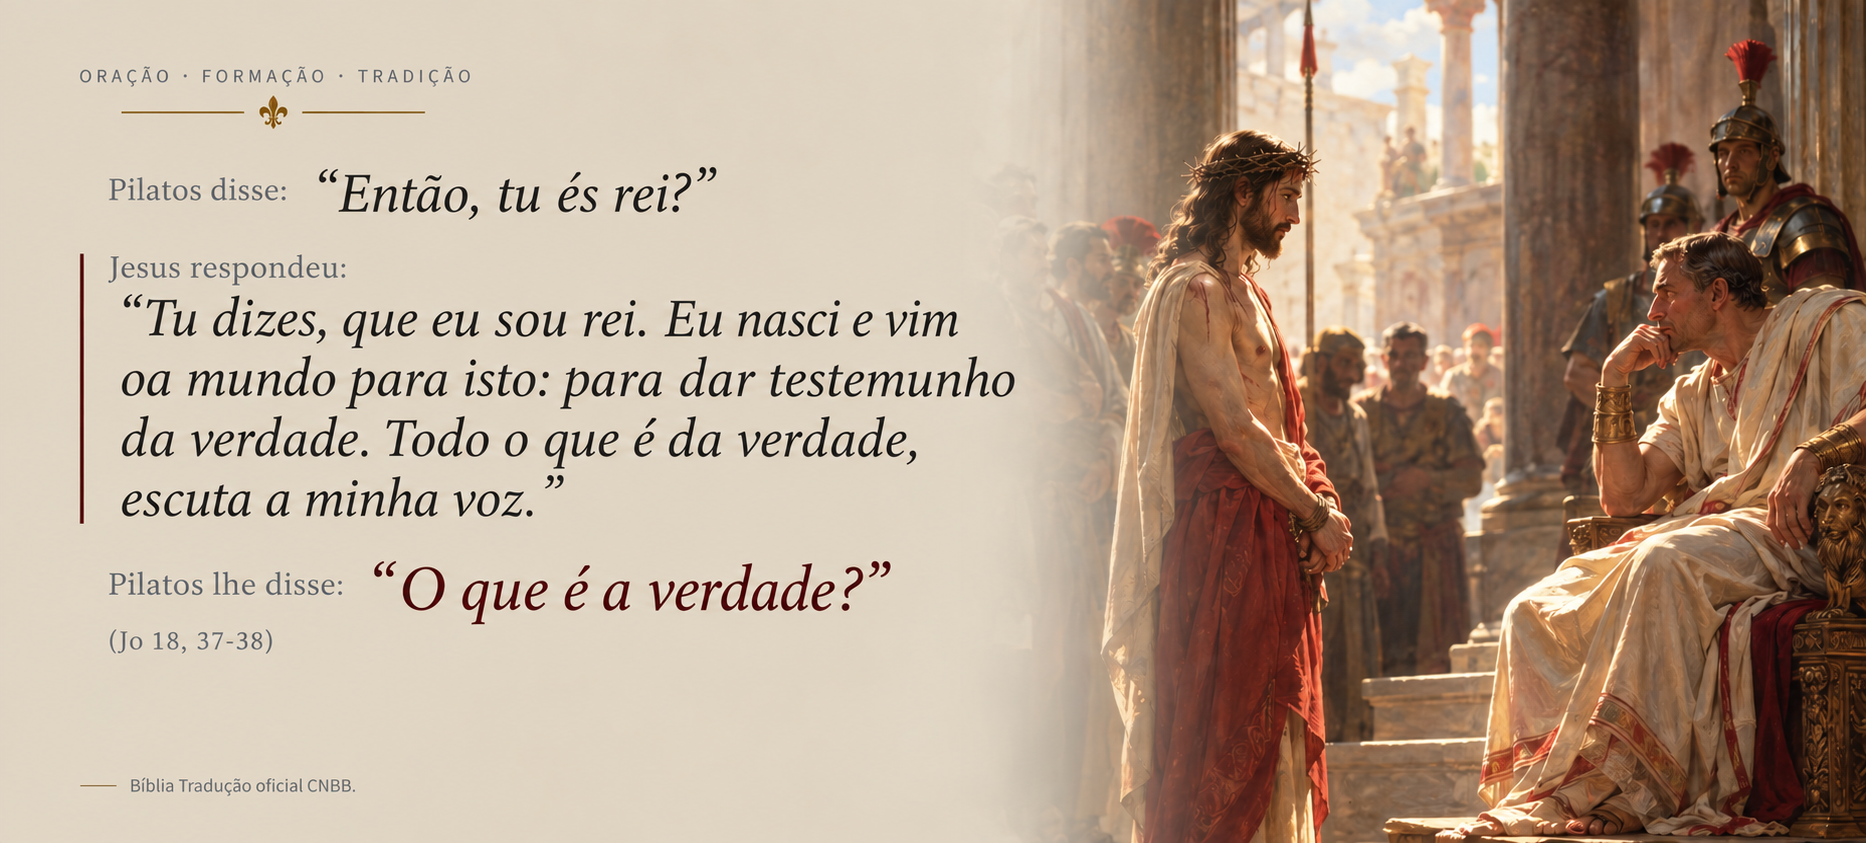
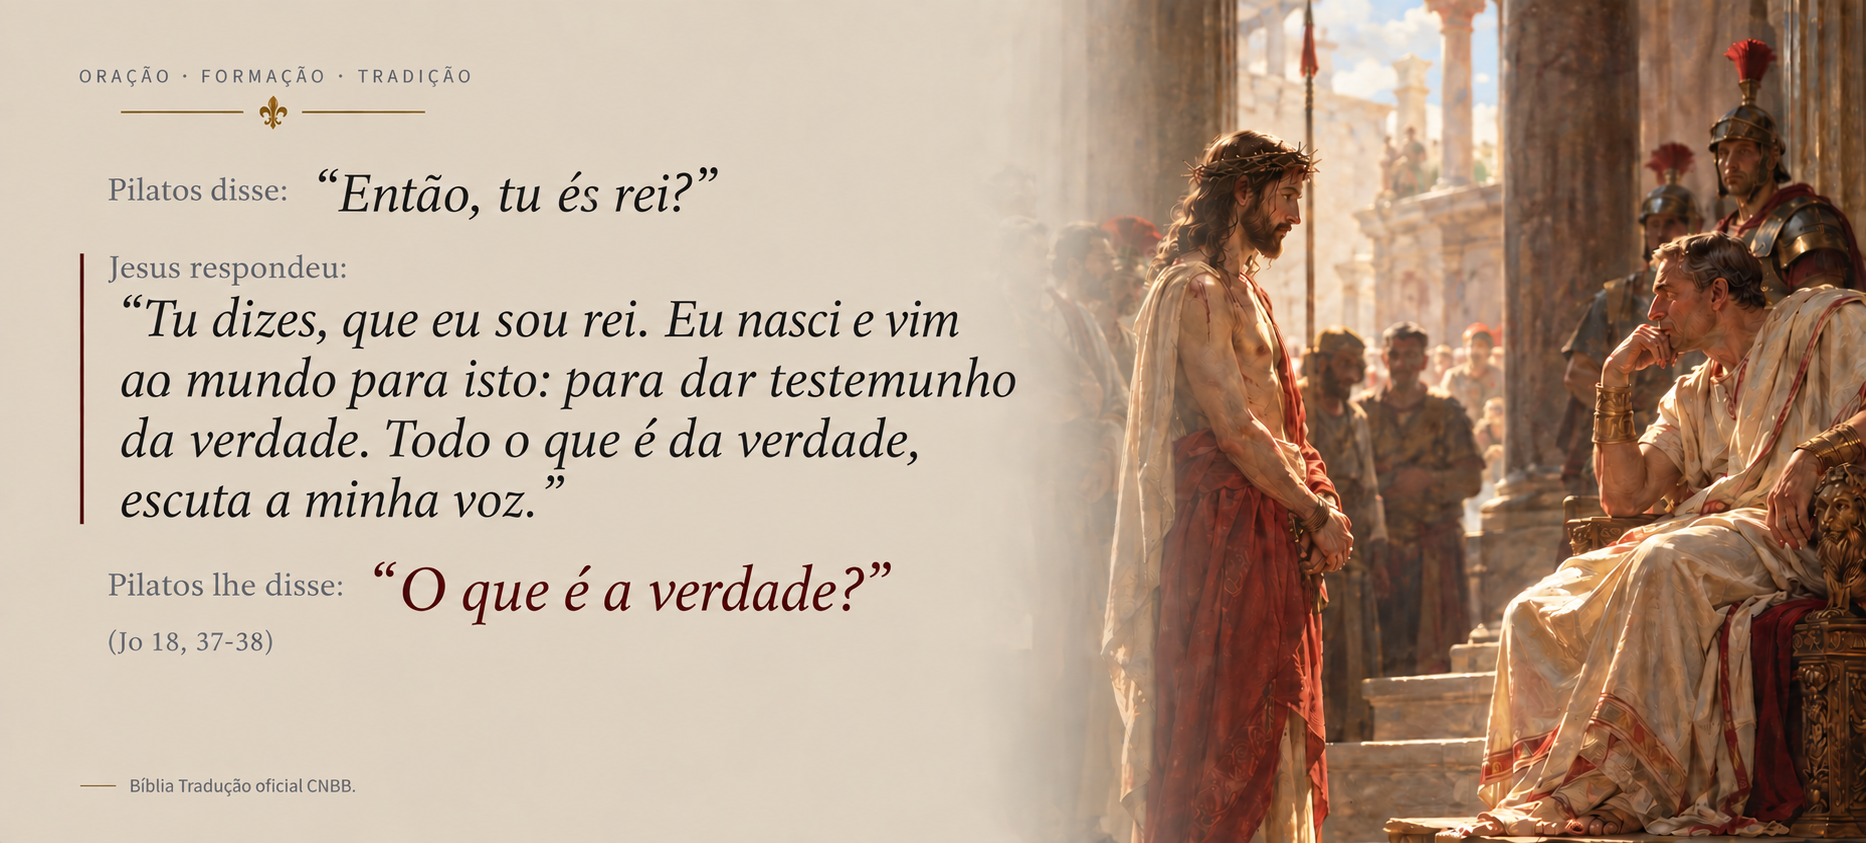
feat: remoção e aplicação de imagem do sobre

diff --git a/app/sobre/page.tsx b/app/sobre/page.tsx
@@ -4,6 +4,7 @@ import imagemBanner from "../../docs/layout/banner-sobre-o-que-e-a-verdade.png";
 import { FormularioBuscaOracao } from "@/components/FormularioBuscaOracao";
 import { LogoMarca } from "@/components/LogoMarca";
 import { Rodape } from "@/components/Rodape";
+import stylesBomJesus from "@/app/sobre/imagemBomJesus.module.css";
 
 function Placeholder({ texto }: { texto: string }) {
   return (
@@ -114,7 +115,14 @@ export default function PaginaSobre() {
               </p>
             </div>
             <div className="col-12 col-lg-5">
-              <Placeholder texto="[PLACEHOLDER — IMAGEM DO SENHOR BOM JESUS DOS PERDÕES]" />
+              <Image
+                src="/images/senhor-bom-jesus.jpeg"
+                alt="Senhor Bom Jesus dos Perdões"
+                width={447}
+                height={447}
+                sizes="(min-width: 992px) 42vw, 100vw"
+                className={stylesBomJesus.imagem}
+              />
               <h3 className="h6 mt-3">O Bom Jesus dos Perdões</h3>
               <p className="small text-secondary mb-0">
                 Espaço reservado para a imagem do Senhor Bom Jesus dos Perdões,

diff --git a/app/sobre/imagemBomJesus.module.css b/app/sobre/imagemBomJesus.module.css
@@ -1,0 +1,41 @@
+.imagem {
+  display: block;
+  width: 100%;
+  height: auto;
+  mask-image:
+    linear-gradient(
+      to right,
+      transparent 0%,
+      #000 18%,
+      #000 82%,
+      transparent 100%
+    ),
+    linear-gradient(
+      to bottom,
+      transparent 0%,
+      #000 18%,
+      #000 82%,
+      transparent 100%
+    );
+  mask-composite: intersect;
+  mask-repeat: no-repeat;
+  mask-size: 100% 100%;
+  -webkit-mask-image:
+    linear-gradient(
+      to right,
+      transparent 0%,
+      #000 18%,
+      #000 82%,
+      transparent 100%
+    ),
+    linear-gradient(
+      to bottom,
+      transparent 0%,
+      #000 18%,
+      #000 82%,
+      transparent 100%
+    );
+  -webkit-mask-composite: source-in;
+  -webkit-mask-repeat: no-repeat;
+  -webkit-mask-size: 100% 100%;
+}
